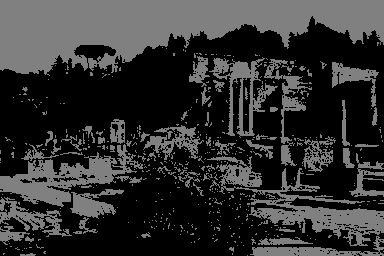
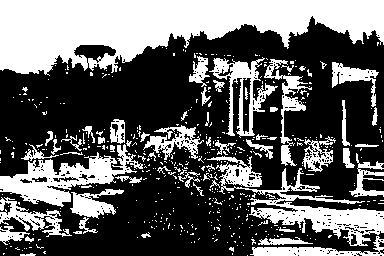
Bug Fixed

diff --git a/HW1/Quantization.py b/HW1/Quantization.py
@@ -11,7 +11,7 @@ def quantize(input_img, level, output):
     matrix = util.toMatrix(img)
     
     length = (255+1)/level
-
+    seg_length = 255/(level - 1)
     # I do not know how to iterate numpy matrix
     # I have tried many ways and can not do it correctly, so I transfer it
     # to list and operate on it then transfer it back
@@ -21,7 +21,7 @@ def quantize(input_img, level, output):
     for i in range(len(matrix_list)):
         for j in range(len(matrix_list[i])):
             matrix_list[i][j] = int(matrix_list[i][j] / int(length))
-            matrix_list[i][j] = matrix_list[i][j] * length
+            matrix_list[i][j] = matrix_list[i][j] * seg_length
 
     matrix = np.matrix(matrix_list, dtype=np.uint8)
     img = util.toImage(matrix)

diff --git a/HW1/Scaling.py b/HW1/Scaling.py
@@ -22,6 +22,7 @@ def scale(input_image, size, output):
     # Now, when down-scale the image, repeated assigment will happen
     for x in range(len(new_image)):
         for y in range(len(new_image[x])):
+            # ???
             u = (x + 0.5) * w_scale - 0.5
             v = (y + 0.5) * h_scale - 0.5
 
